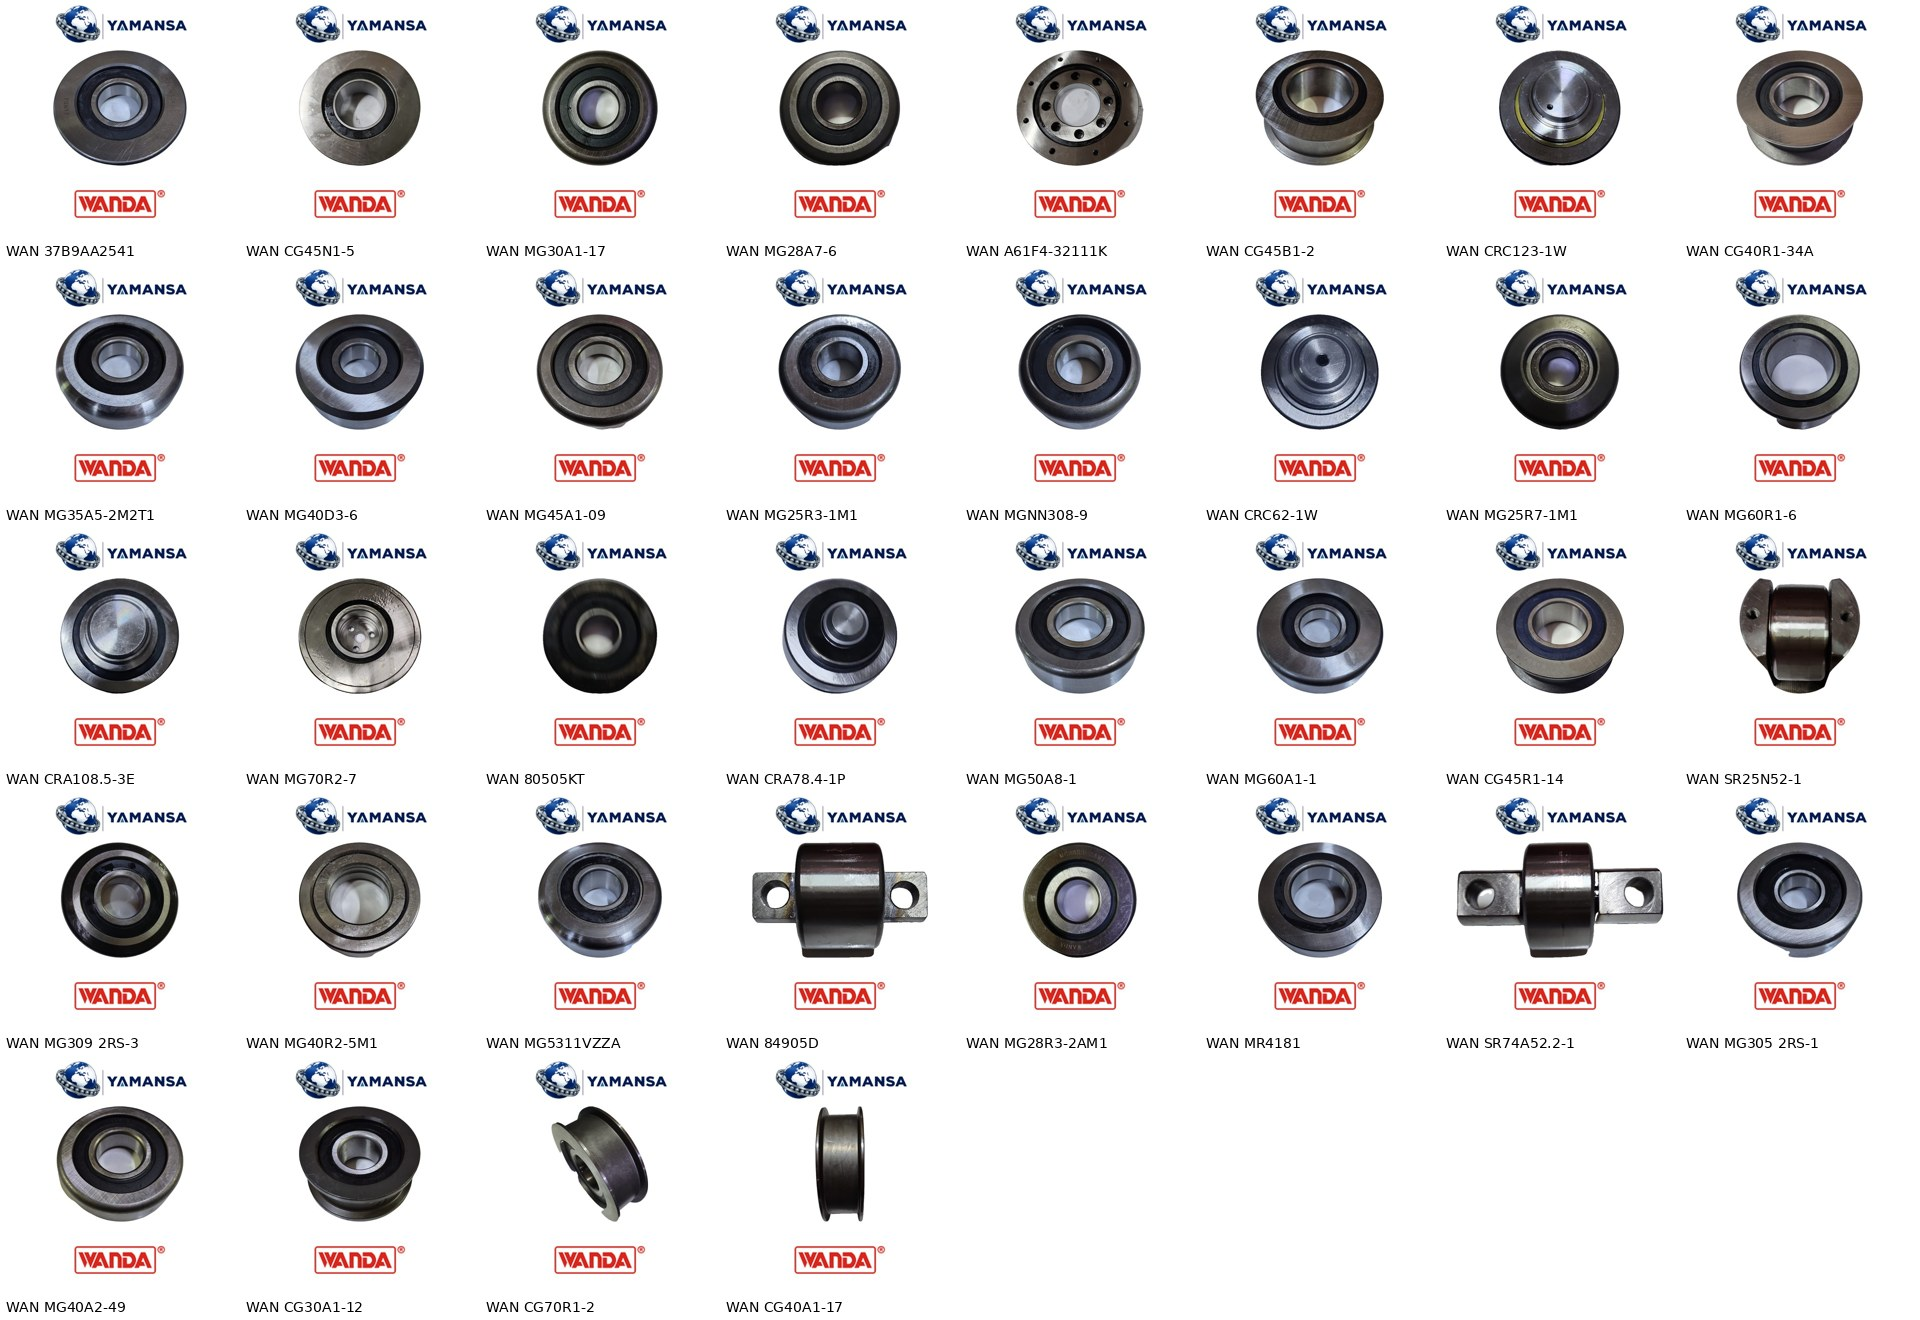
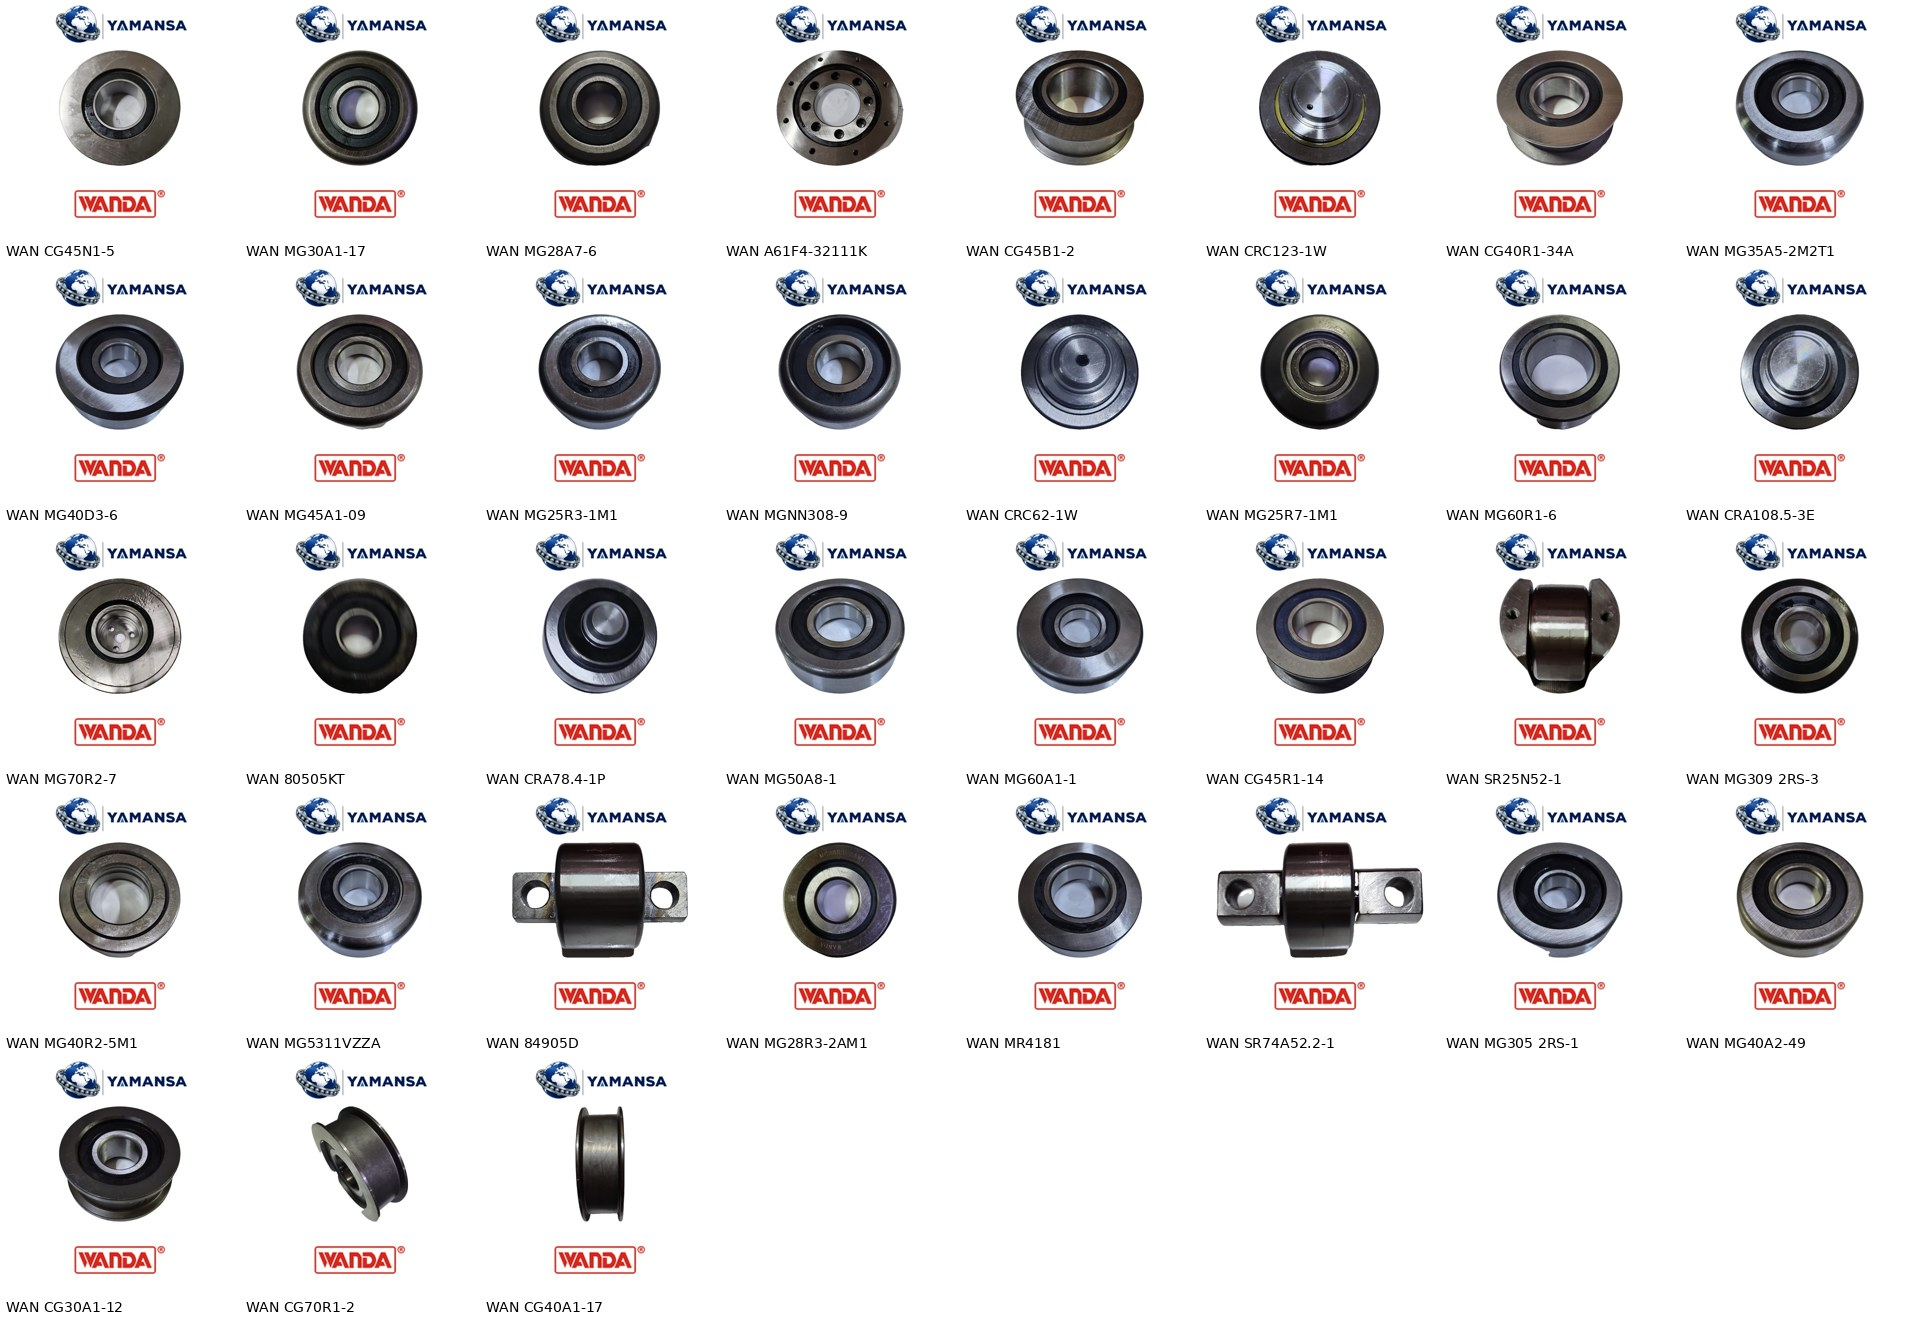
parca-13: cift rulmanli tip gorseli kaldirildi

diff --git a/rd/parca-13/RAPOR.md b/rd/parca-13/RAPOR.md
@@ -5,10 +5,10 @@
 | tür | adet |
 |---|---|
 | birebir | 762 |
-| ayni_tip | 898 |
-| resimsiz | 2003 |
+| ayni_tip | 885 |
+| resimsiz | 2016 |
 
-Farklı görsel dosyası: 778. Tüm görseller kontakt sayfalarında tek tek kontrol edildi; filigranlı, başka firma etiketli, kutu/ambalaj, teknik çizim ve ölçü oklu görseller kullanılmadı. Kesitli (çeyreği kesik) görsel yok.
+Farklı görsel dosyası: 777. Tüm görseller kontakt sayfalarında tek tek kontrol edildi; filigranlı, başka firma etiketli, kutu/ambalaj, teknik çizim ve ölçü oklu görseller kullanılmadı. Kesitli (çeyreği kesik) görsel yok.
 - birebir: WANDA ürünlerinin kendi temiz ürün fotoğrafları (arka plan temizlendi).
 - ayni_tip: NTN/SNR için ntnamericas.com resmi tip fotoğrafları; yalnızca kapak/keçe ve yapı tipi aynı olan kodlara (ör. sadece ZZ sabit bilyalı, açık açısal, NU/NJ/NUP/N silindirik, açık oynak makaralı çelik/pirinç kafes ayrı, koni+kep takımı konik).
 - NTN/SNR'de keçeli (LLU/LLB/2RS/EE), yataklı ünite, iğneli (iç bilezikli), slewing vb. için doğru görsel bulunamadı → resimsiz + bayrak.
@@ -46,10 +46,10 @@ Bayraklı ürün: 3663
 
 | bayrak | adet |
 |---|---|
-| Doğru görsel bulunamadı | 2003 |
+| Doğru görsel bulunamadı | 2016 |
 | Ölçüler teyit edilmedi | 1902 |
 | Ölçü dizisi tedarikçi notundaki haliyle; d/D/B sırası ayrıştırılmadı | 1574 |
-| Görsel aynı tipteki üretici fotoğrafıdır; kafes ve detaylar farklı olabilir | 898 |
+| Görsel aynı tipteki üretici fotoğrafıdır; kafes ve detaylar farklı olabilir | 885 |
 | Alt tip (direk/zincir/kombine) teyit edilmedi | 485 |
 | Kategori teyit edilemedi | 227 |
 | İğneli rulman iç bileziği (tek başına bilezik) | 12 |
